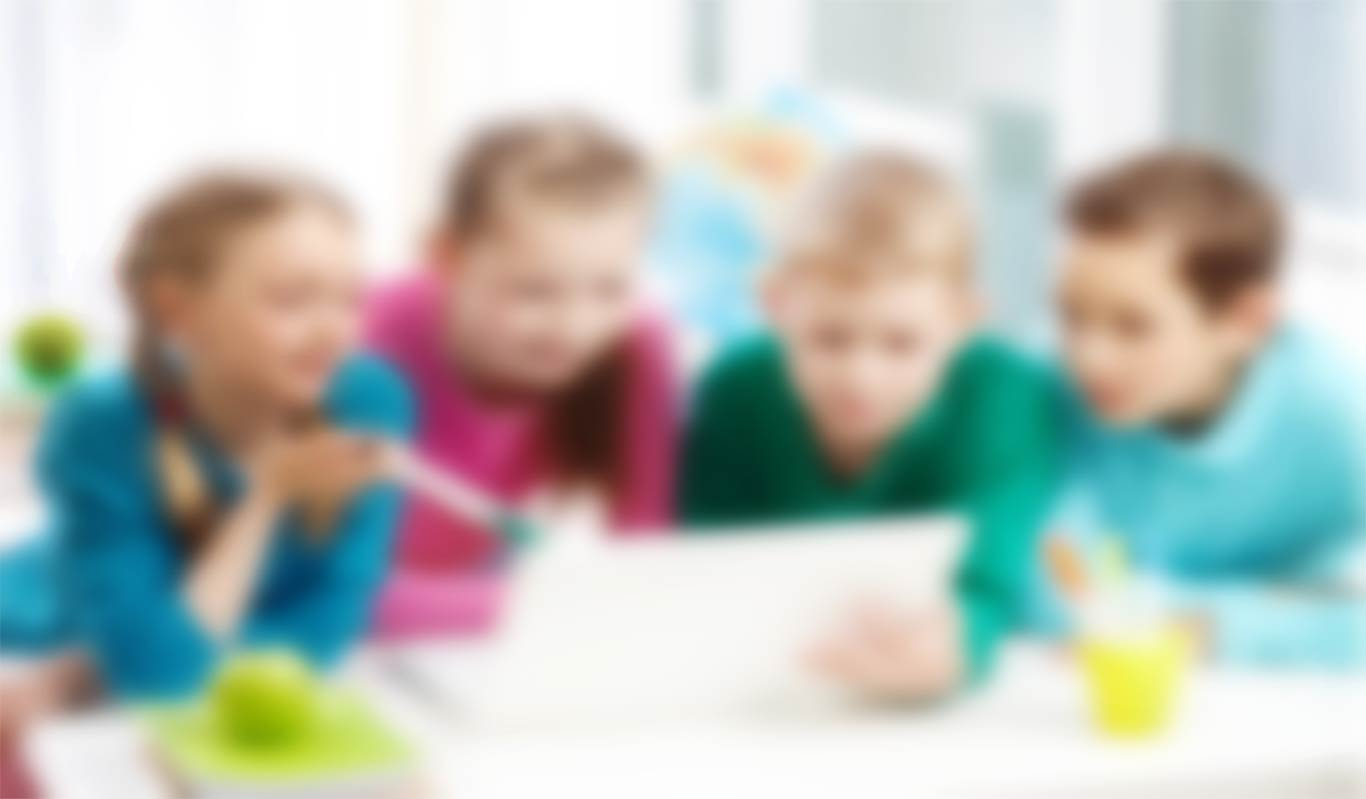
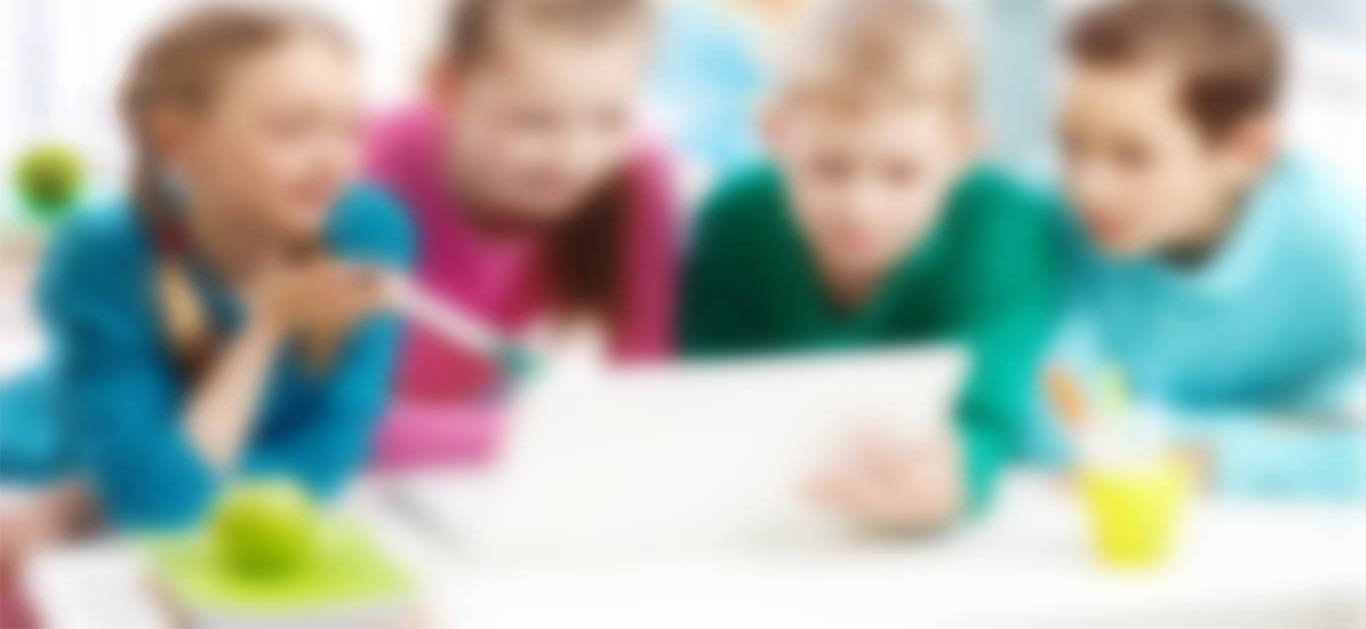
closes #86 Crop main picture 170px from top in order to fill its container; Add arrow on starting screen for scroll down

diff --git a/source/Web/HappyMe.Web/Content/custom/landing-page.css b/source/Web/HappyMe.Web/Content/custom/landing-page.css
@@ -86,7 +86,6 @@ header .navbar-inverse .navbar-nav > li {
 section.home {
     background: url("/Content/images/homepage-background.jpg") no-repeat center center fixed;
     background-size: cover;
-    background-position-y: -170px;
     height: 739px;
 }
 
@@ -118,6 +117,27 @@ section.home {
                 transform: scale(1.1);
                 transition-duration: 0.3s;
                 transition-property: transform;
+            }
+
+    section.home #scroll-down-arrow-container {
+        position: fixed;
+        bottom: 5em;
+        width: 100%;
+    }
+
+    section.home #scroll-down-arrow-container {
+        position: fixed;
+        bottom: 5em;
+        width: 100%;
+    }
+
+        section.home #scroll-down-arrow-container .fa-chevron-circle-down {
+            font-size: 5em;
+            color: #eb5270;
+        }
+
+            section.home #scroll-down-arrow-container .fa-chevron-circle-down:hover {
+                cursor: pointer;
             }
 
 .mission-list {
@@ -333,11 +353,6 @@ section.home {
             /* Opera */
             display: table;
         }
-
-        .flip .card .back p {           
-            display: table-cell;
-            vertical-align: middle;
-        }
 /*=========End Flipping animations==========*/
 .team-section {
     margin-top: 64px;
@@ -450,9 +465,9 @@ section.home {
                 background: #FF8A5B;
             }
 
-                .contact-form-section .contacts-form .contact-form .inner-addon input[type="email"] {
-                    padding-left: 45px;
-                }
+            .contact-form-section .contacts-form .contact-form .inner-addon input[type="email"] {
+                padding-left: 45px;
+            }
 
 footer {
     padding: 20px;
@@ -484,9 +499,9 @@ footer {
         color: white;
     }
 
-        .linkedin .fa-linkedin:before {
-            color: white;
-        }
+    .linkedin .fa-linkedin:before {
+        color: white;
+    }
 
 @media only screen and (max-width: 991px) {
     .contact-form-section .contacts-form input[type="text"],
@@ -505,3 +520,101 @@ footer {
         width: 100%;
     }
 }
+
+/* Icon Hang */
+@-webkit-keyframes hvr-icon-hang {
+    0% {
+        -webkit-transform: translateY(18px);
+        transform: translateY(18px);
+    }
+
+    50% {
+        -webkit-transform: translateY(6px);
+        transform: translateY(6px);
+    }
+
+    100% {
+        -webkit-transform: translateY(18px);
+        transform: translateY(18px);
+    }
+}
+
+@keyframes hvr-icon-hang {
+    0% {
+        -webkit-transform: translateY(18px);
+        transform: translateY(18px);
+    }
+
+    50% {
+        -webkit-transform: translateY(6px);
+        transform: translateY(6px);
+    }
+
+    100% {
+        -webkit-transform: translateY(18px);
+        transform: translateY(18px);
+    }
+}
+
+@-webkit-keyframes hvr-icon-hang-sink {
+    100% {
+        -webkit-transform: translateY(18px);
+        transform: translateY(18px);
+    }
+}
+
+@-moz-keyframes hvr-icon-hang-sink {
+    100% {
+        -webkit-transform: translateY(18px);
+        transform: translateY(18px);
+    }
+}
+
+@keyframes hvr-icon-hang-sink {
+    100% {
+        -webkit-transform: translateY(px);
+        transform: translateY(18px);
+    }
+}
+
+.hvr-icon-hang {
+    display: inline-block;
+    vertical-align: middle;
+    -webkit-transform: translateZ(0);
+    transform: translateZ(0);
+    box-shadow: 0 0 1px rgba(0, 0, 0, 0);
+    -webkit-backface-visibility: hidden;
+    backface-visibility: hidden;
+    -moz-osx-font-smoothing: grayscale;
+    position: relative;
+    padding-right: 2.2em;
+    -webkit-transition-duration: 0.3s;
+    transition-duration: 0.3s;
+}
+
+    .hvr-icon-hang:before {
+        content: "\f078";
+        position: absolute;
+        right: 1em;
+        padding: 0 1px;
+        font-family: FontAwesome;
+        -webkit-transform: translateZ(0);
+        transform: translateZ(0);
+    }
+
+    .hvr-icon-hang:hover:before, .hvr-icon-hang:focus:before, .hvr-icon-hang:active:before {
+        -webkit-animation-name: hvr-icon-hang-sink, hvr-icon-hang;
+        animation-name: hvr-icon-hang-sink, hvr-icon-hang;
+        -webkit-animation-duration: .3s, 1.5s;
+        animation-duration: .3s, 1.5s;
+        -webkit-animation-delay: 0s, .3s;
+        animation-delay: 0s, .3s;
+        -webkit-animation-timing-function: ease-out, ease-in-out;
+        animation-timing-function: ease-out, ease-in-out;
+        -webkit-animation-iteration-count: 1, infinite;
+        animation-iteration-count: 1, infinite;
+        -webkit-animation-fill-mode: forwards;
+        animation-fill-mode: forwards;
+        -webkit-animation-direction: normal, alternate;
+        animation-direction: normal, alternate;
+    }
